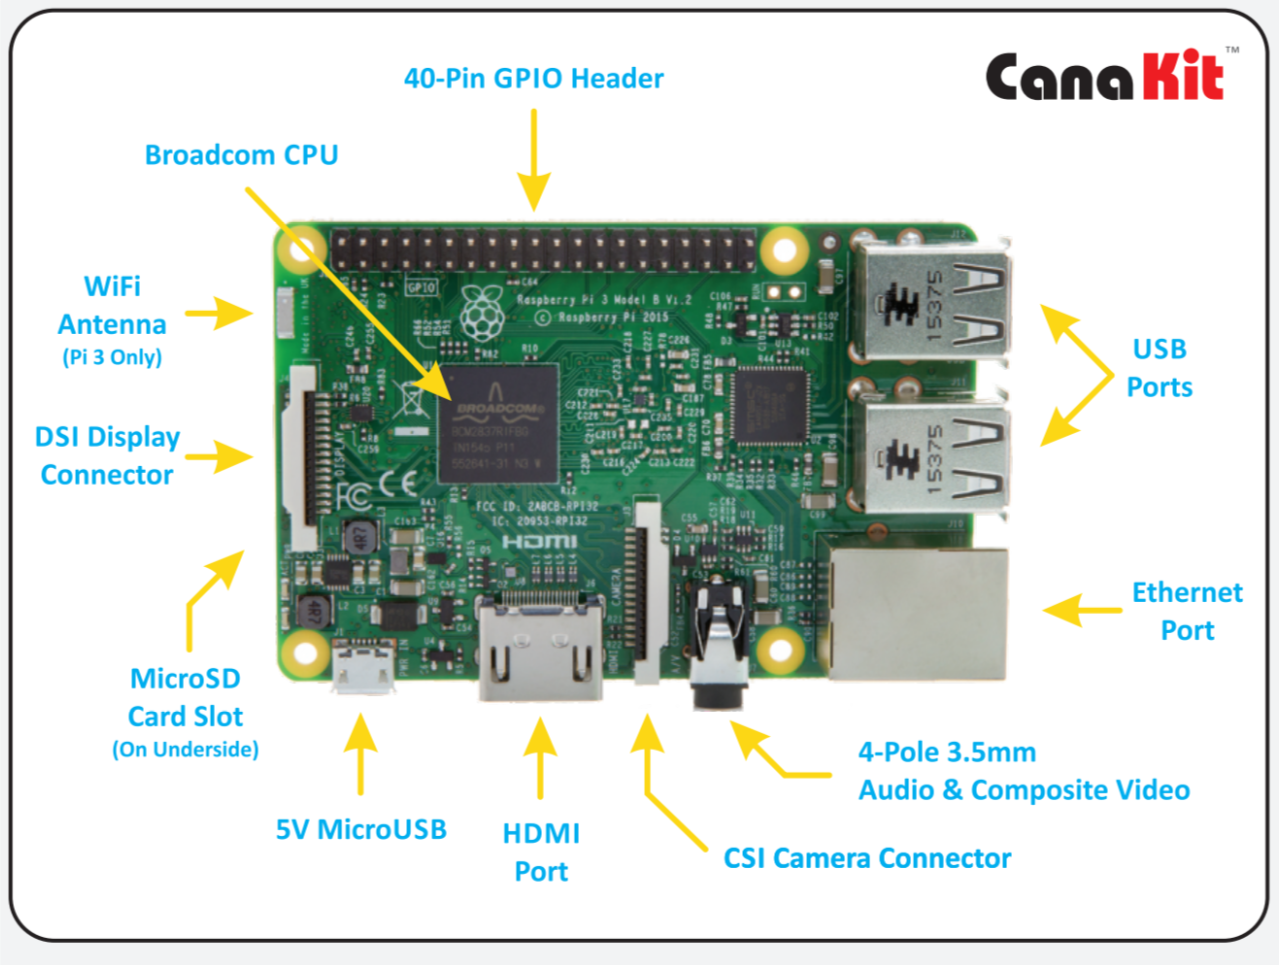
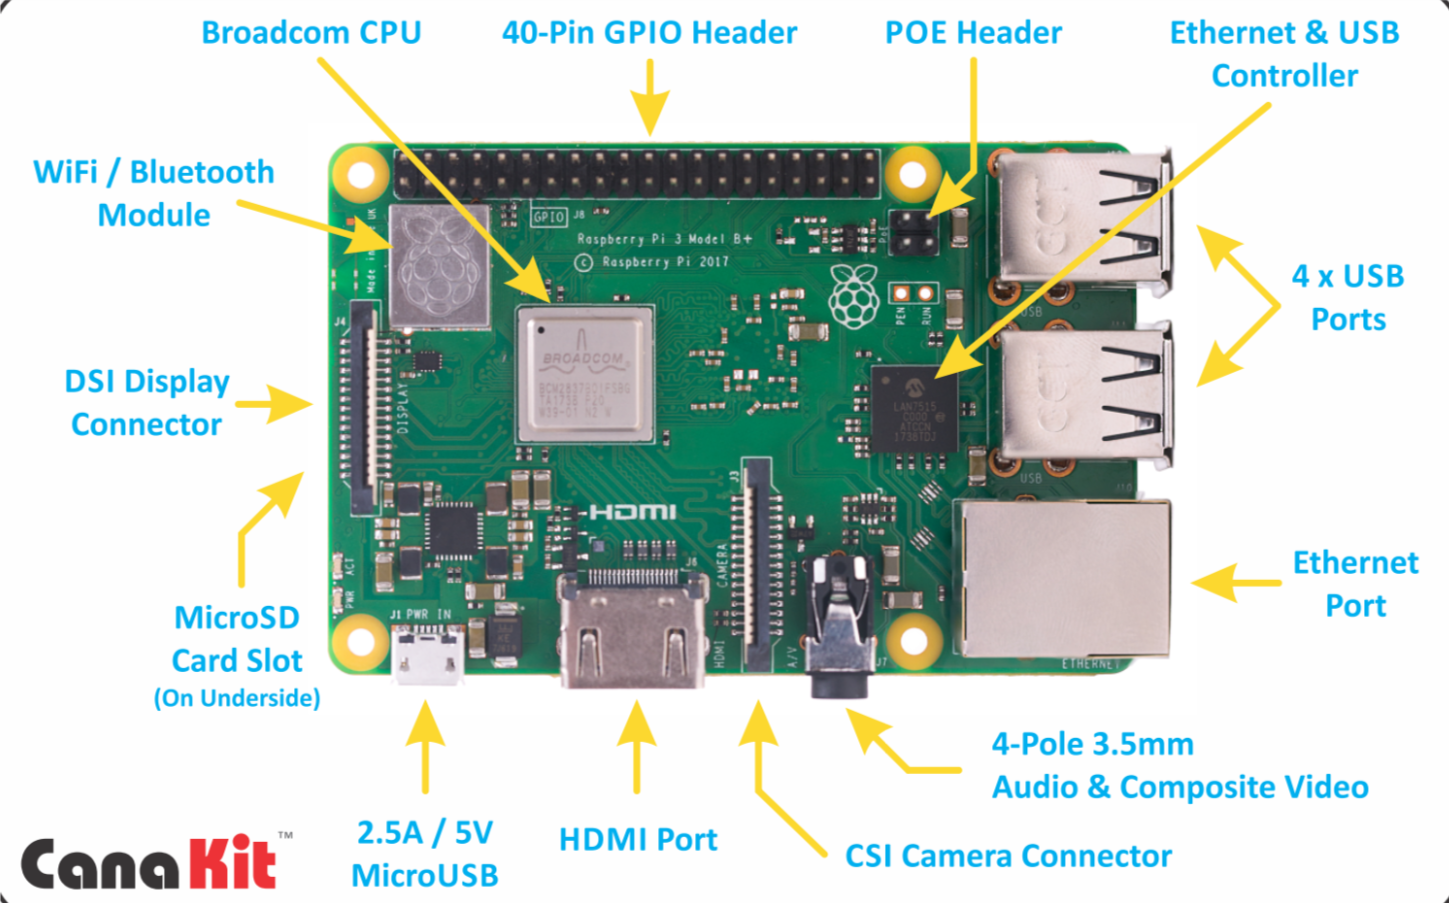
updated for Raspberry pi 3 B+

diff --git a/introduction_to_iot_node_red/README.md b/introduction_to_iot_node_red/README.md
@@ -88,7 +88,7 @@ The first thing we need to do is install and update a few needed programs. As mu
 
 During the below installs respond yes to any prompts you receive during the following operations.
 
-* Install the Firefox Browser - Node-Red works best with Firefox.  Remember we need to use the command `sudo` to preface the install command due to the Raspberry Pi implementing the Cybersecurity First Principle of __Least Privilege__
+* Install the Firefox Browser - Node-Red works best with Firefox.  Remember we need to use the command `sudo` to preface the install command due to the Raspberry Pi implementing the Cybersecurity First Principle of __Least Privilege__.  
 
 ```bash
 sudo apt-get install firefox-esr
@@ -127,7 +127,7 @@ On the Raspberry Pi desktop select _Menu_, _Internet_, _Firefox ESR_
 ### Step 4: Create an IFTTT account
 IFTTT (If This Then That) is a cloud service that allows us to automate actions, if the service receives a certain input, then it will execute a pre-selected action.  We will use the IFTTT service with Node-Red to interface with some common cloud services.
 
-* In Firefox, navigate to https://littlebits.cc/login and click _Sign up_
+* In Firefox, navigate to https://ifttt.com and click _Sign up_
 * Walk through the online instructions to create your account
 * Once registration is complete, click search and enter Webhooks
 
@@ -150,7 +150,7 @@ Programs in Node-Red are called flows and they can be very simple or very comple
 With those principles in mind, lets start your first flow.
 
 * Open a new tab in Firefox (keep the IFTTT tab open for now) and enter the address __http://127.0.0.1:1880__, this will bring up the web page for the Node-Red server running on _your_ Raspberry Pi.  `127.0.0.1` is always the local address of the computer you are using.
-* Drag a __timestamp__ node from the left pane, called the palette, into the flow
+* Drag a __inject__ node from the left pane, called the palette, into the flow, once you drag it into the field it's title will change to __timestamp__
 
 ![Timestamp](img/timestamp.png)
 

diff --git a/raspberry_pi_intro/README.md b/raspberry_pi_intro/README.md
@@ -199,7 +199,7 @@ Discuss to ensure all understand the material.
 ### Additional Resources
 For more information, investigate the following.
 
-* [CanaKit Pi Quick Start Guide](http://www.canakit.com/Media/CanaKit-Raspberry-Pi-Quick-Start-Guide-2.1.pdf)
+* [CanaKit Pi Quick Start Guide](http://www.canakit.com/Media/CanaKit-Raspberry-Pi-Quick-Start-Guide-3.2.pdf)
 
 ### Acknowledgements
 
